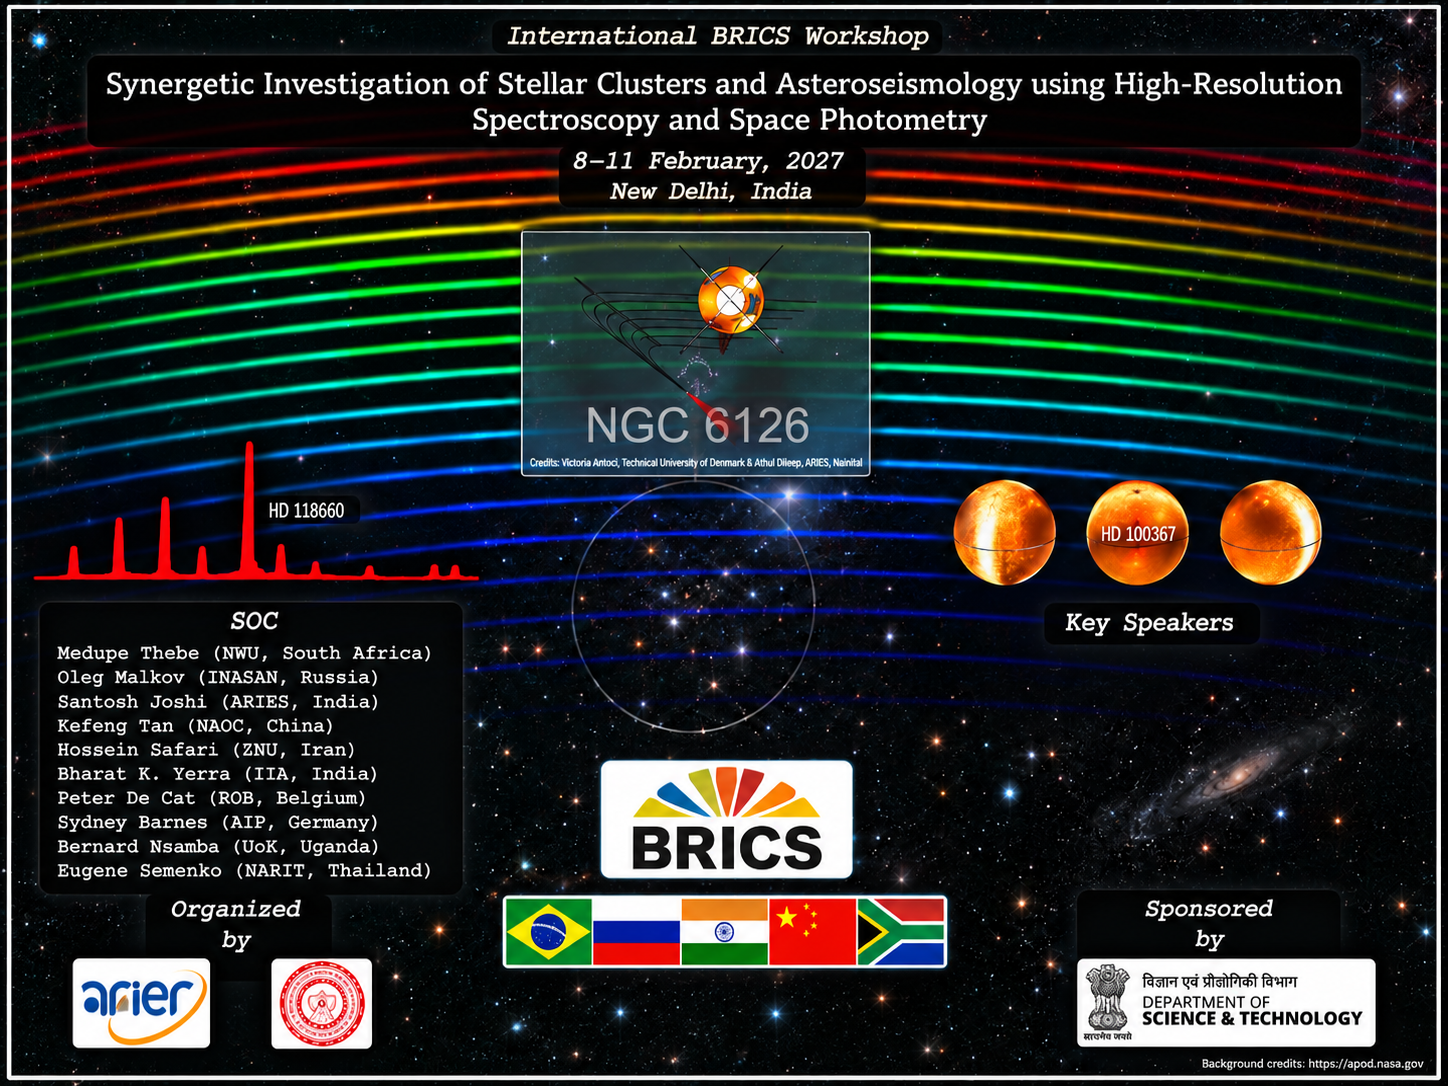
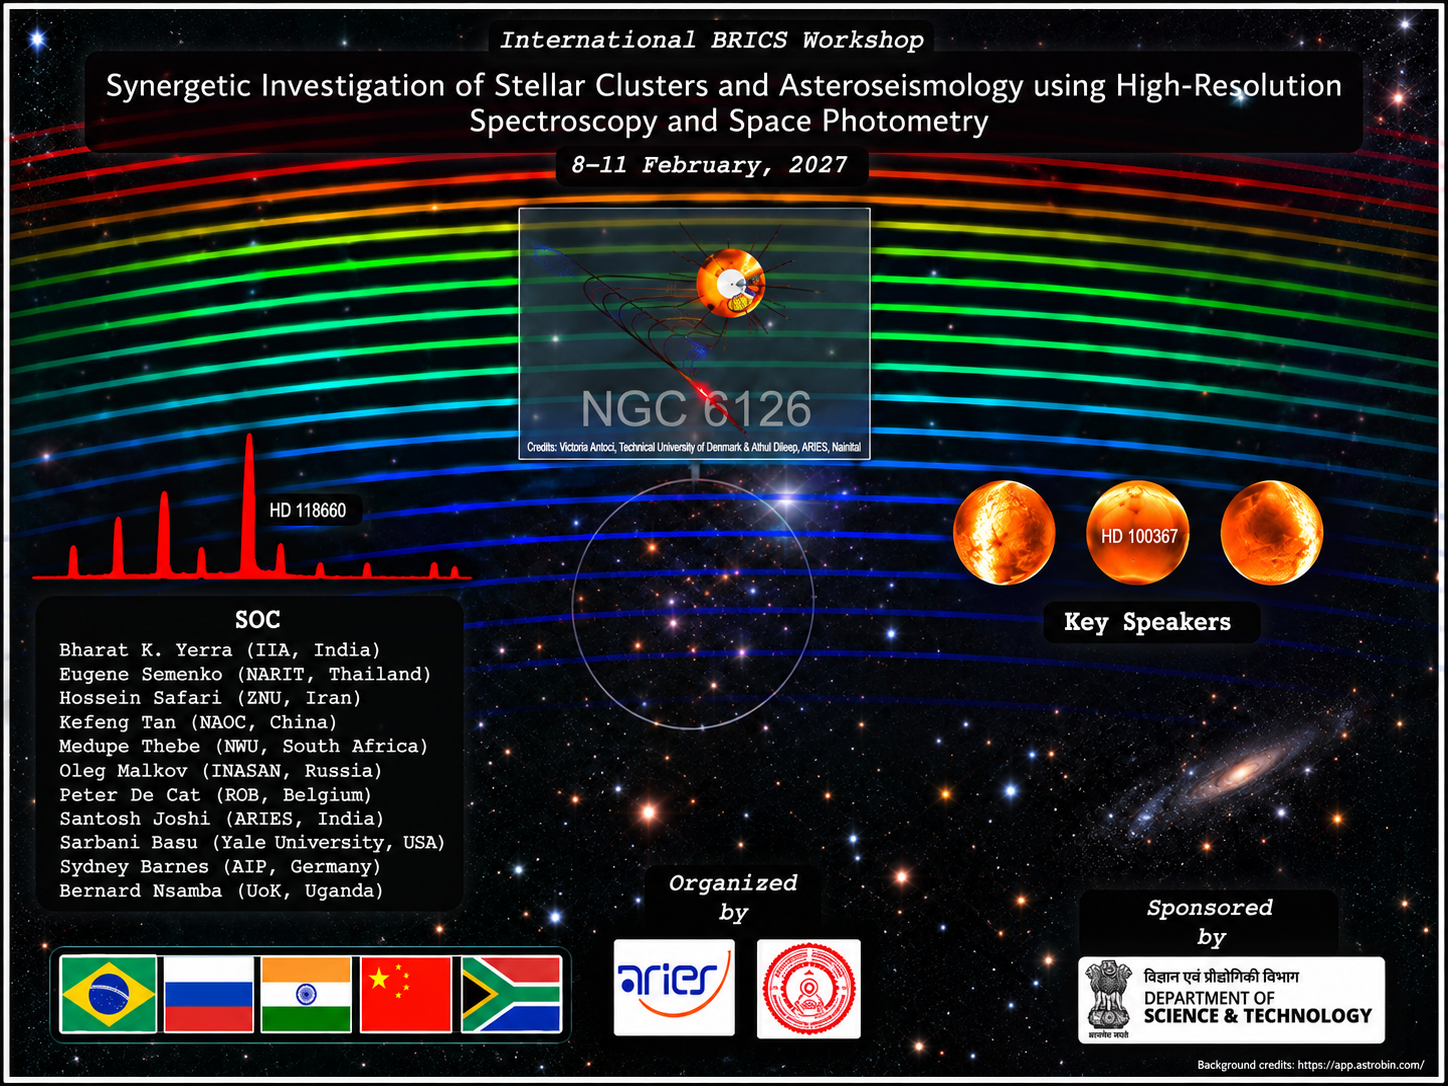
feat: update committee members and workshop poster
- Update Scientific Organizing Committee (SOC) members
- Replace conference poster image and update download link

diff --git a/src/data/site.ts b/src/data/site.ts
@@ -149,16 +149,17 @@ export const convenor = {
 export const soc = {
   title: 'Scientific Organizing Committee (SOC)',
   members: [
-    { name: 'Dr. Santosh Joshi', role: 'Asteroseismology', affil: 'ARIES, India' },
-    { name: 'Dr. Oleg Malkov', role: 'Big Data', affil: 'INASAN, Russia' },
-    { name: 'Dr. Kefeng Tan', role: 'Galactic Archaeology', affil: 'NAOC, China' },
-    { name: 'Dr. Hossein Safari', role: 'AI & ML', affil: 'ZNU, Iran' },
-    { name: 'Dr. Medupe Thebe', role: 'Asteroseismology', affil: 'NWU, South Africa' },
-    { name: 'Dr. Bharat K. Yerra', role: 'High-resolution Spectroscopy', affil: 'IIA, India' },
-    { name: 'Dr. Peter De Cat', role: 'Asteroseismology', affil: 'ROB, Belgium' },
-    { name: 'Dr. Sydney Barnes', role: 'Gyrochronology', affil: 'AIP, Potsdam, Germany' },
     { name: 'Dr. Benard Nsamba', role: 'Asteroseismic Modelling', affil: 'University of Kampala, Uganda' },
+    { name: 'Dr. Bharat K. Yerra', role: 'High-resolution Spectroscopy', affil: 'IIA, India' },
     { name: 'Dr. Eugene Semenko', role: 'High-resolution Spectroscopy', affil: 'NARIT, Thailand' },
+    { name: 'Dr. Hossein Safari', role: 'AI & ML', affil: 'ZNU, Iran' },
+    { name: 'Dr. Kefeng Tan', role: 'Galactic Archaeology', affil: 'NAOC, China' },
+    { name: 'Dr. Medupe Thebe', role: 'Asteroseismology', affil: 'NWU, South Africa' },
+    { name: 'Dr. Oleg Malkov', role: 'Big Data', affil: 'INASAN, Russia' },
+    { name: 'Dr. Peter De Cat', role: 'Asteroseismology', affil: 'ROB, Belgium' },
+    { name: 'Dr. Santosh Joshi', role: 'Asteroseismology', affil: 'ARIES, India' },
+    { name: 'Prof. Sarbani Basu', role: 'Cluster Asteroseismology', affil: 'Department of Astronomy, Yale University, USA' },
+    { name: 'Dr. Sydney Barnes', role: 'Gyrochronology', affil: 'AIP, Potsdam, Germany' },
   ],
 };
 
